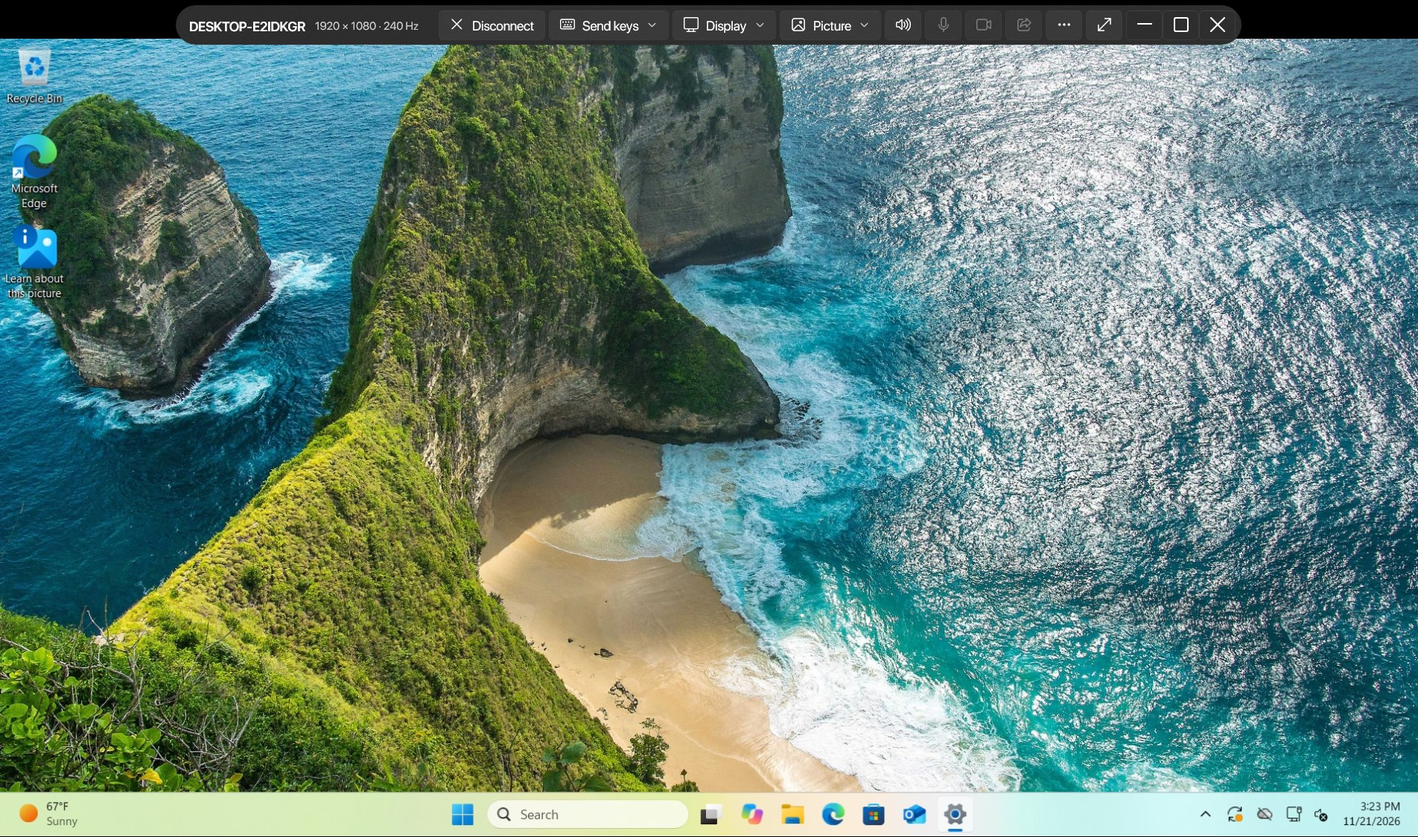
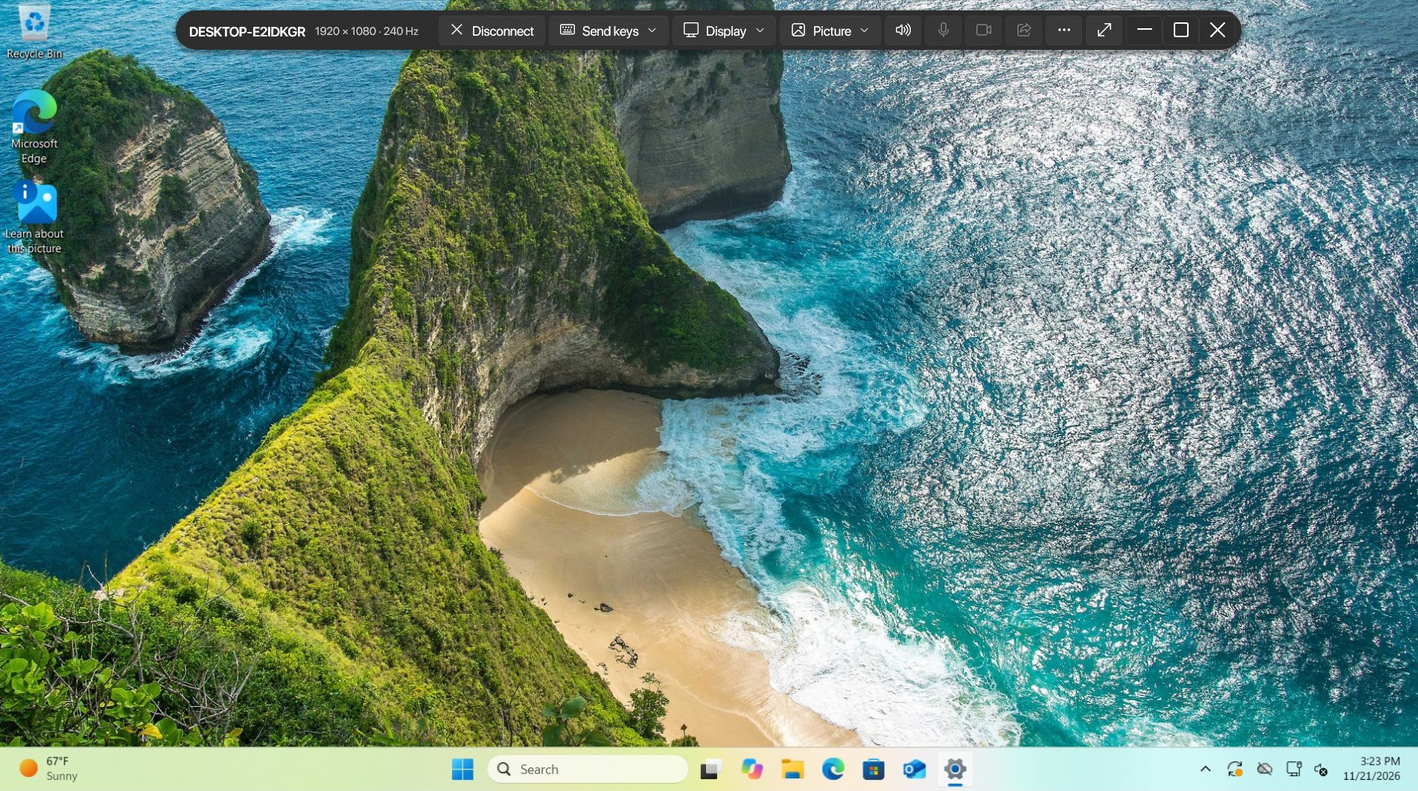
remoteman.ruxn.com: the Windows screenshot without the black band above the picture

diff --git a/site/public/index.html b/site/public/index.html
@@ -166,7 +166,7 @@
       <div class="stage">
         <div class="window">
           <div class="titlebar" aria-hidden="true"><i></i><i></i><i></i><span>remoteman viewer on Windows</span></div>
-          <img src="/shots/windows-viewer.jpg" width="1904" height="1124" alt="The remoteman viewer on Windows showing another computer's Windows 11 desktop at 1920 by 1080 and 240 Hz, with its session bar: Disconnect, Send keys, Display, Picture, sound, microphone, camera and sharing.">
+          <img src="/shots/windows-viewer.jpg" width="1904" height="1063" alt="The remoteman viewer on Windows showing another computer's Windows 11 desktop at 1920 by 1080 and 240 Hz, with its session bar: Disconnect, Send keys, Display, Picture, sound, microphone, camera and sharing.">
         </div>
         <p class="caption">A Windows 11 computer's desktop in the remoteman viewer, 1920 × 1080 at 240 Hz.</p>
       </div>
